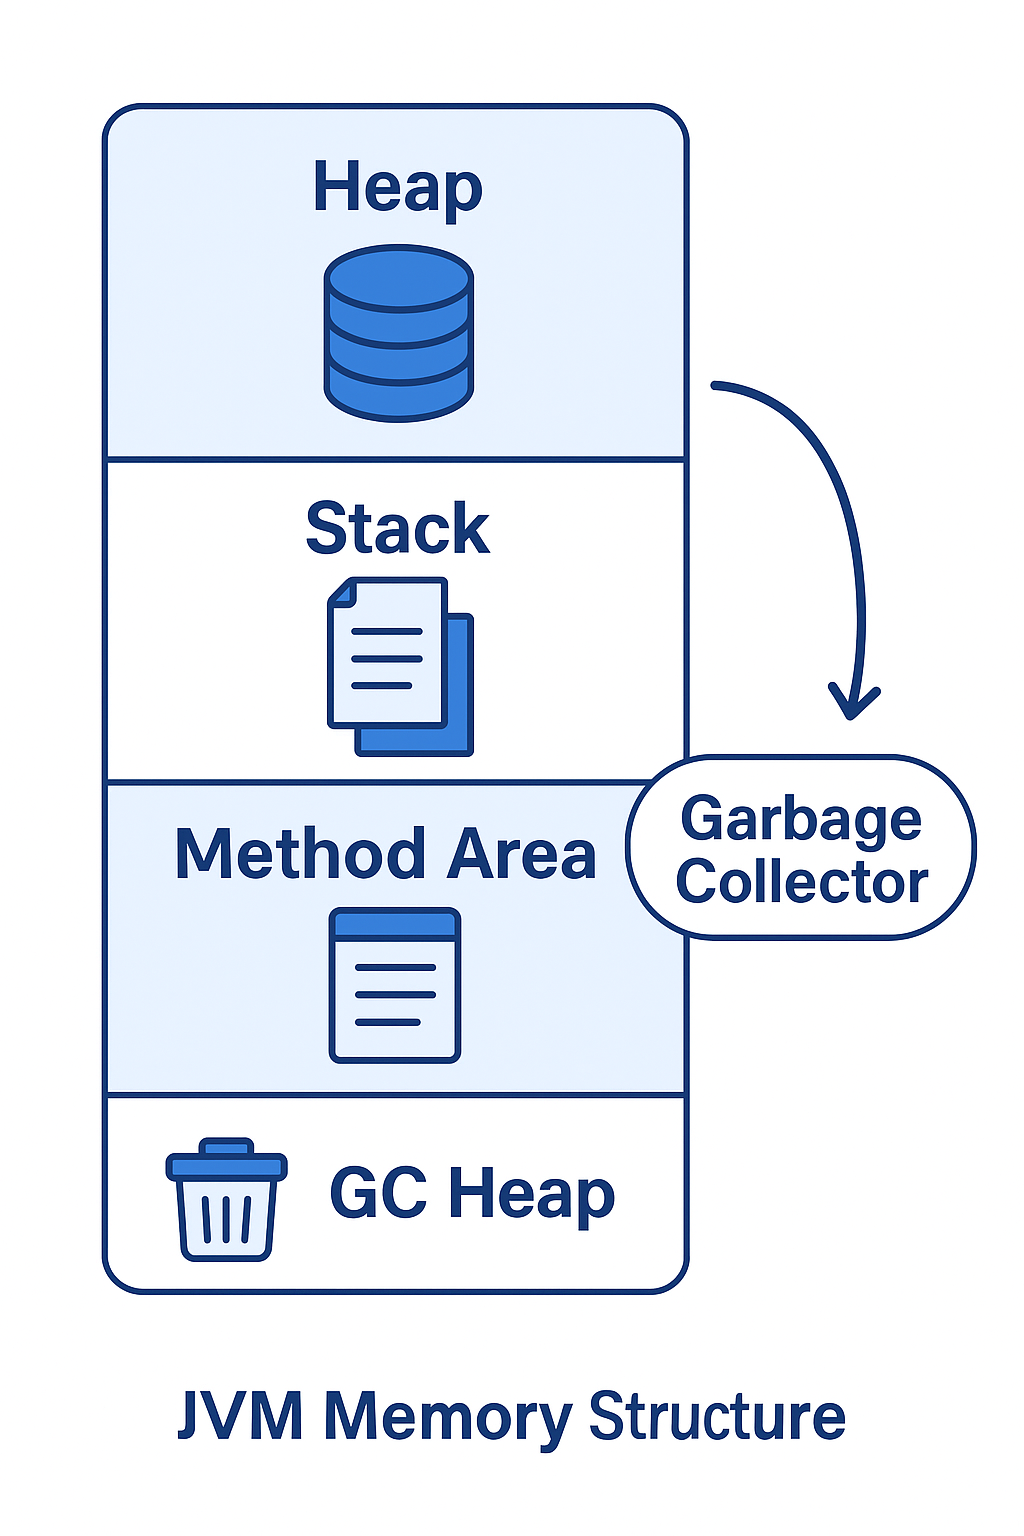
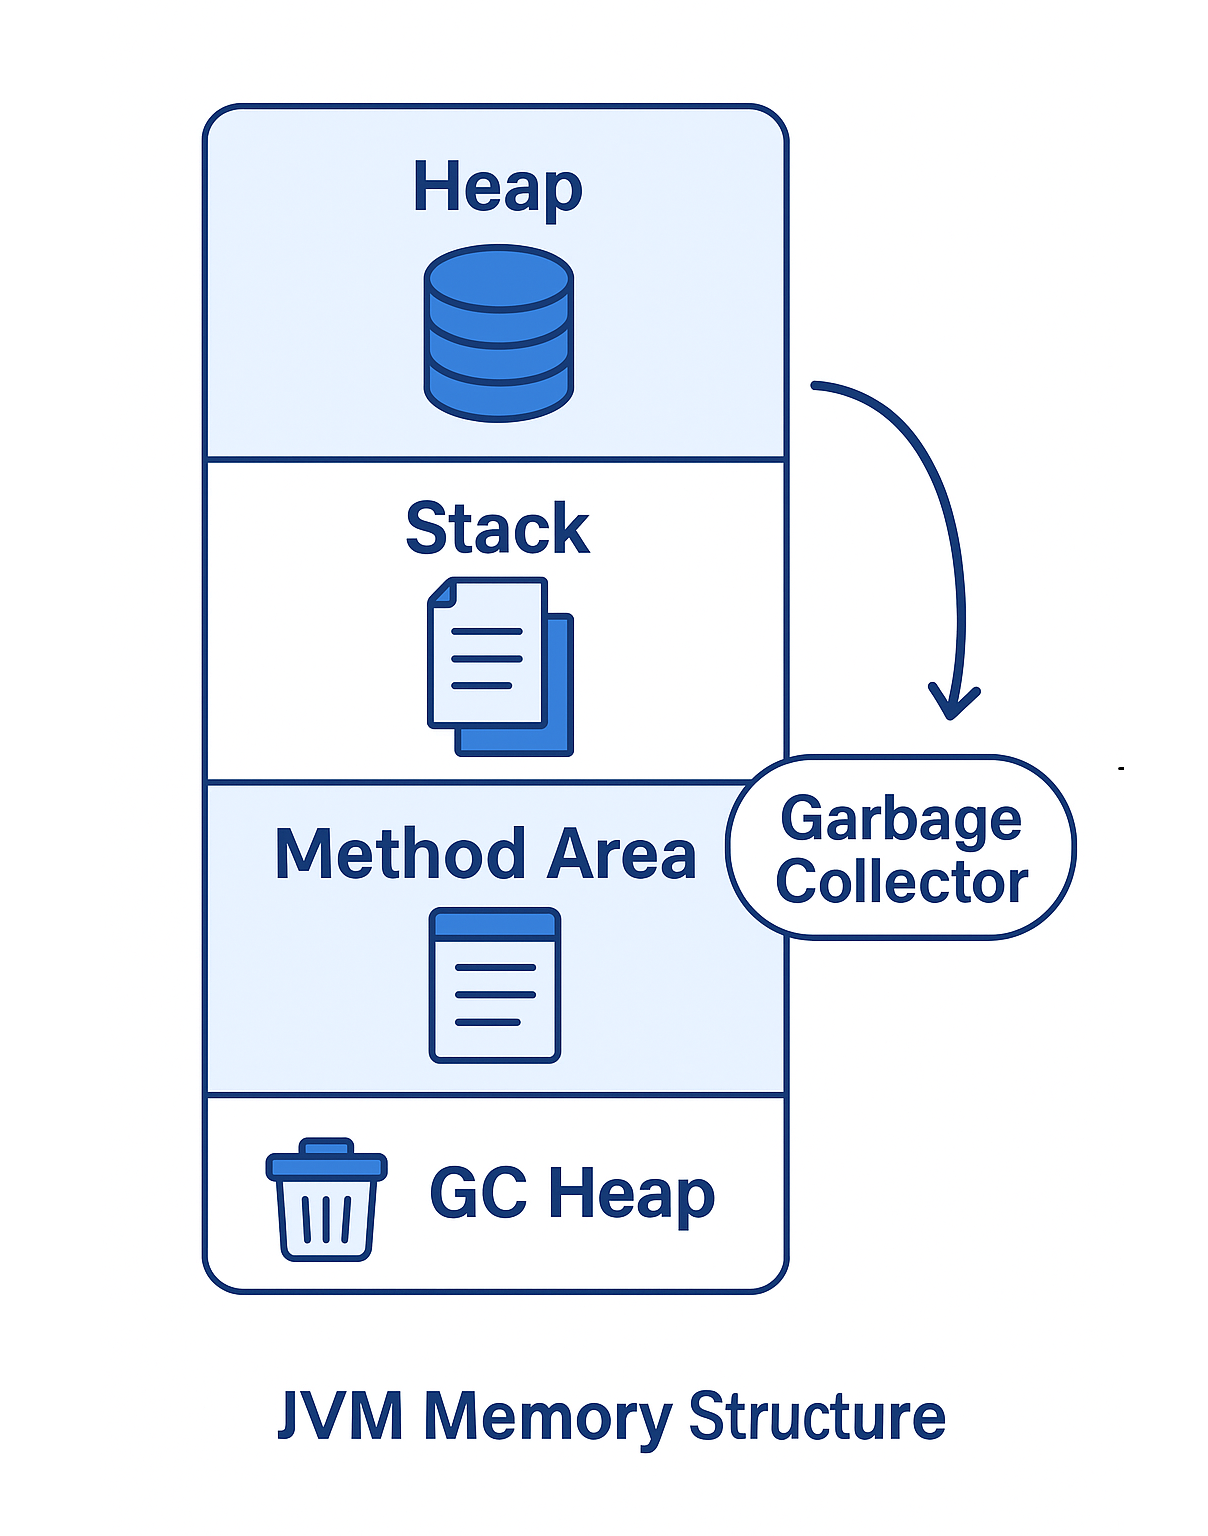
edit

diff --git a/slides/04-oop-in-java.md b/slides/04-oop-in-java.md
@@ -21,8 +21,7 @@ style: |
 <!-- _class: lead -->
 ![bg right:30% 90%](assets/sharif-logo-blue.png)
 # Advanced Programming
-## Object-Oriented Programming  
-### in Java
+## Object-Oriented Programming in Java
 
 **Instructor:** Ali Najimi  
 **Author:** Hossein Masihi  
@@ -141,7 +140,7 @@ style: |
 <div>
   <div class="imgbox">
 
-![width:800](assets/04/jvm-memory.png)
+![width:1000](assets/04/jvm-memory.png)
 
   </div>
 </div>
@@ -232,11 +231,20 @@ style: |
 
 
 ---
+<!-- _class: lead -->
 
+<div class="cols">
+<div>
 # Thank You 
 
 <p class="pill">AP — OOP in Java</p>
+</div>
+</div>
+<div>
+  <div class="imgbox">
 
-![width:800](assets/04/steve.jpg)
+![width:600](assets/04/steve.jpg)
+  </div>
+</div>
 
 *Advanced Programming – Fall 2025 – Sharif University of Technology*
